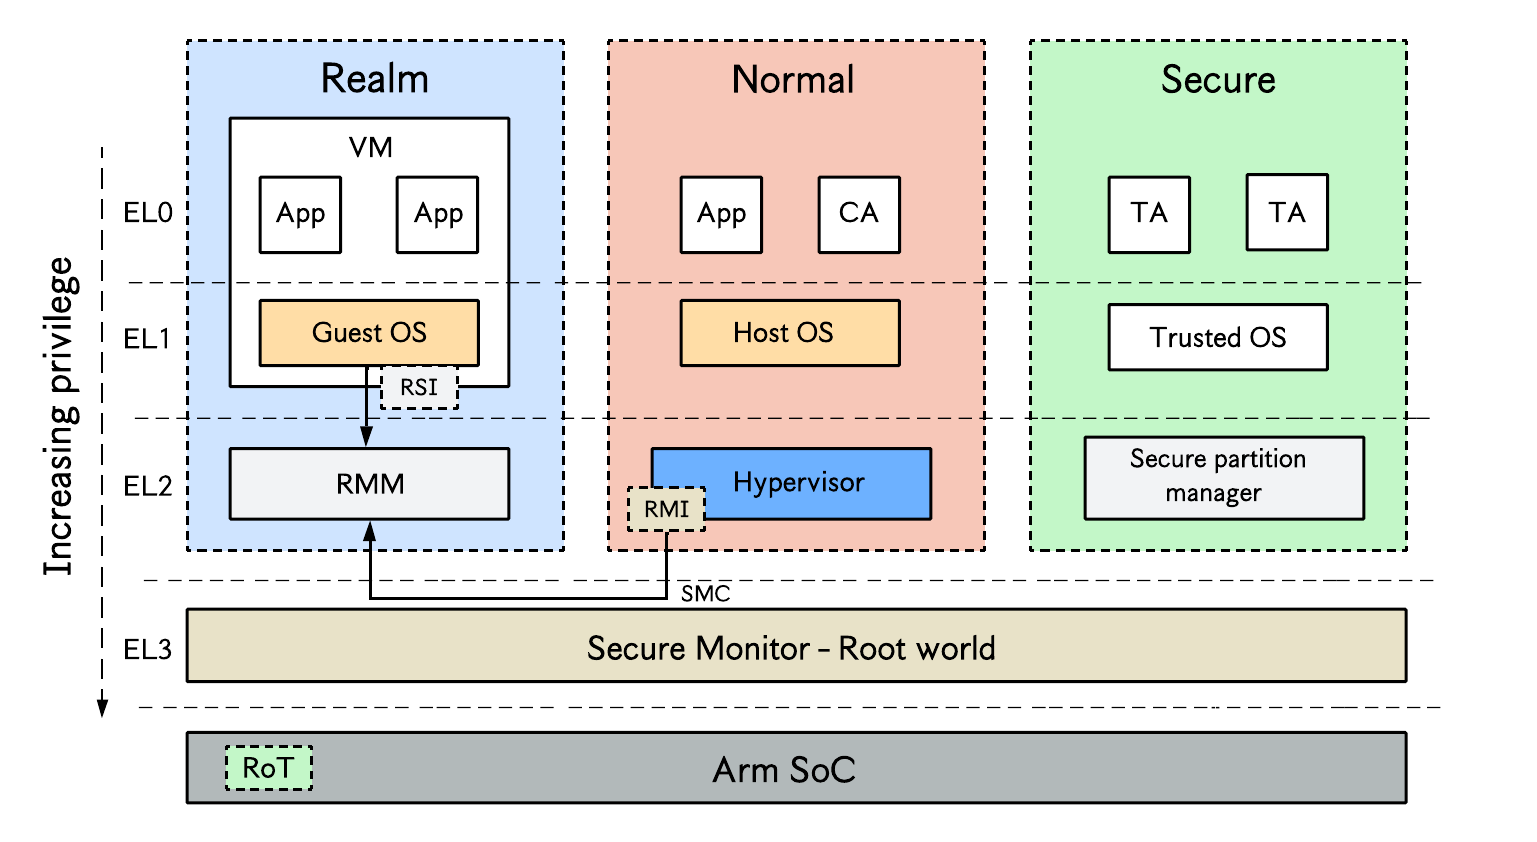
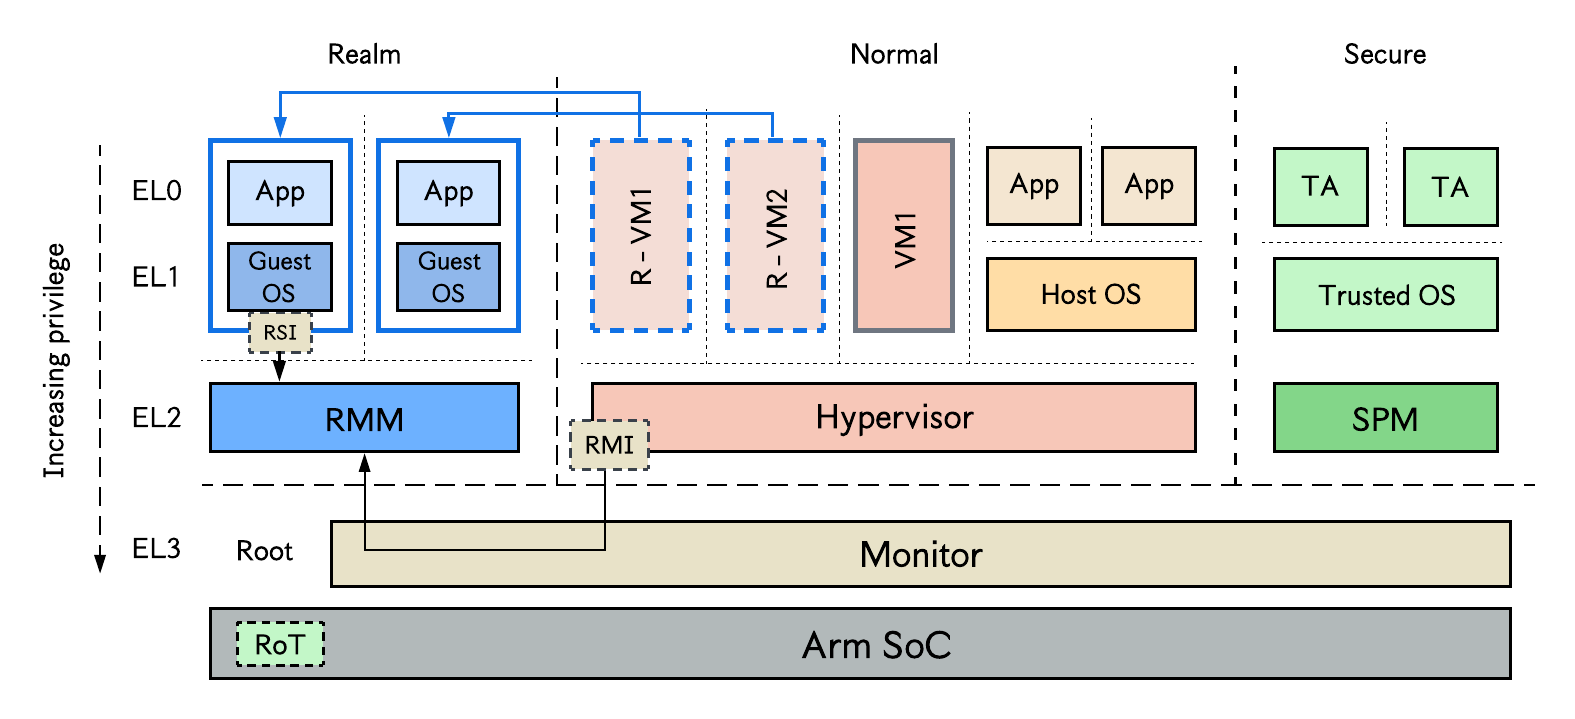
new cca fig

diff --git a/cca/README.md b/cca/README.md
@@ -9,7 +9,7 @@ As shown in the figure below, CCA introduces _Realm world_, a new physical addre
   <img src="arm-cca-arch.png" alt="Arm CCA architecture" width="75%">
 </p>
 
-The RMM also exposes a _Realm Services Interface_ (RSI) through which Realms can request operation for attestation reports, the management of shared memory, etc. A higher-level privilege secure monitor running in at privilege level EL3 in a new world called Root world. The monitor controls all CPU context switching among the three worlds. 
+The RMM also exposes a _Realm Services Interface_ (RSI) through which Realms can request operation for attestation reports, the management of shared memory, etc. A higher-level privilege monitor running in at privilege level EL3 in a new world called Root world. The monitor controls all CPU context switching among the three worlds. 
 
 > The Root world was introduced because Realm and Secure worlds are mutually distrusting. The Root world has access to the entire physical address space. Each CPU core can program the access mode of physical address ranges to be root, realm, secure, or normal world, and a special data structure called the _granule protection table_ (GPT) tracks which physical address belongs to which of the four worlds.
 See [this paper](https://www.usenix.org/system/files/osdi22-li.pdf) to understand the access control policy of CCA for each world.
@@ -23,3 +23,4 @@ There is currently no commercialized hardware with Arm CCA support. Most researc
 - [Design and Verification of the Arm Confidential Compute Architecture](https://www.usenix.org/system/files/osdi22-li.pdf)
 - [Arm CCA: A New Model of Trusted Execution Environment On The ARM Architecture](https://sys.cs.fau.de/extern/lehre/ws22/akss/material/arm-cca.pdf)
 - [ACAI: Protecting Accelerator Execution with Arm Confidential Computing Architecture](https://www.usenix.org/system/files/sec24summer-prepub-56-sridhara.pdf)
+- [Confidential Compute Architecture(CCA) on Armv9.2+ Microprocessors](https://gufranmirza.com/blogs/arm-confidential-compute-architecture)

diff --git a/trustzone/stm32-dk1-optee.md b/trustzone/stm32-dk1-optee.md
@@ -94,7 +94,7 @@ xtest
 
 ## Troubleshooting
 > The [OP-TEE Git repo]() has a list of open and closed issues which may help you.
-- I opened a GitHub issue [here](https://github.com/OP-TEE/optee_os/issues/7521) on some issues I came across while testing OP-TEE on this board. The next article provides tips that solved my issue.
+- I opened a GitHub issue [here](https://github.com/OP-TEE/optee_os/issues/7521) on some issues I came across while testing OP-TEE on this board. The next article provides tips that may help in solving similar issues.
 - [STM32 MPU OP-TEE configuration switches.](https://wiki.st.com/stm32mpu/wiki/OP-TEE_configuration_switches)
 - [STM32 MPU How to build OP-TEE components](https://wiki.st.com/stm32mpu/wiki/How_to_build_OP-TEE_components)
   
